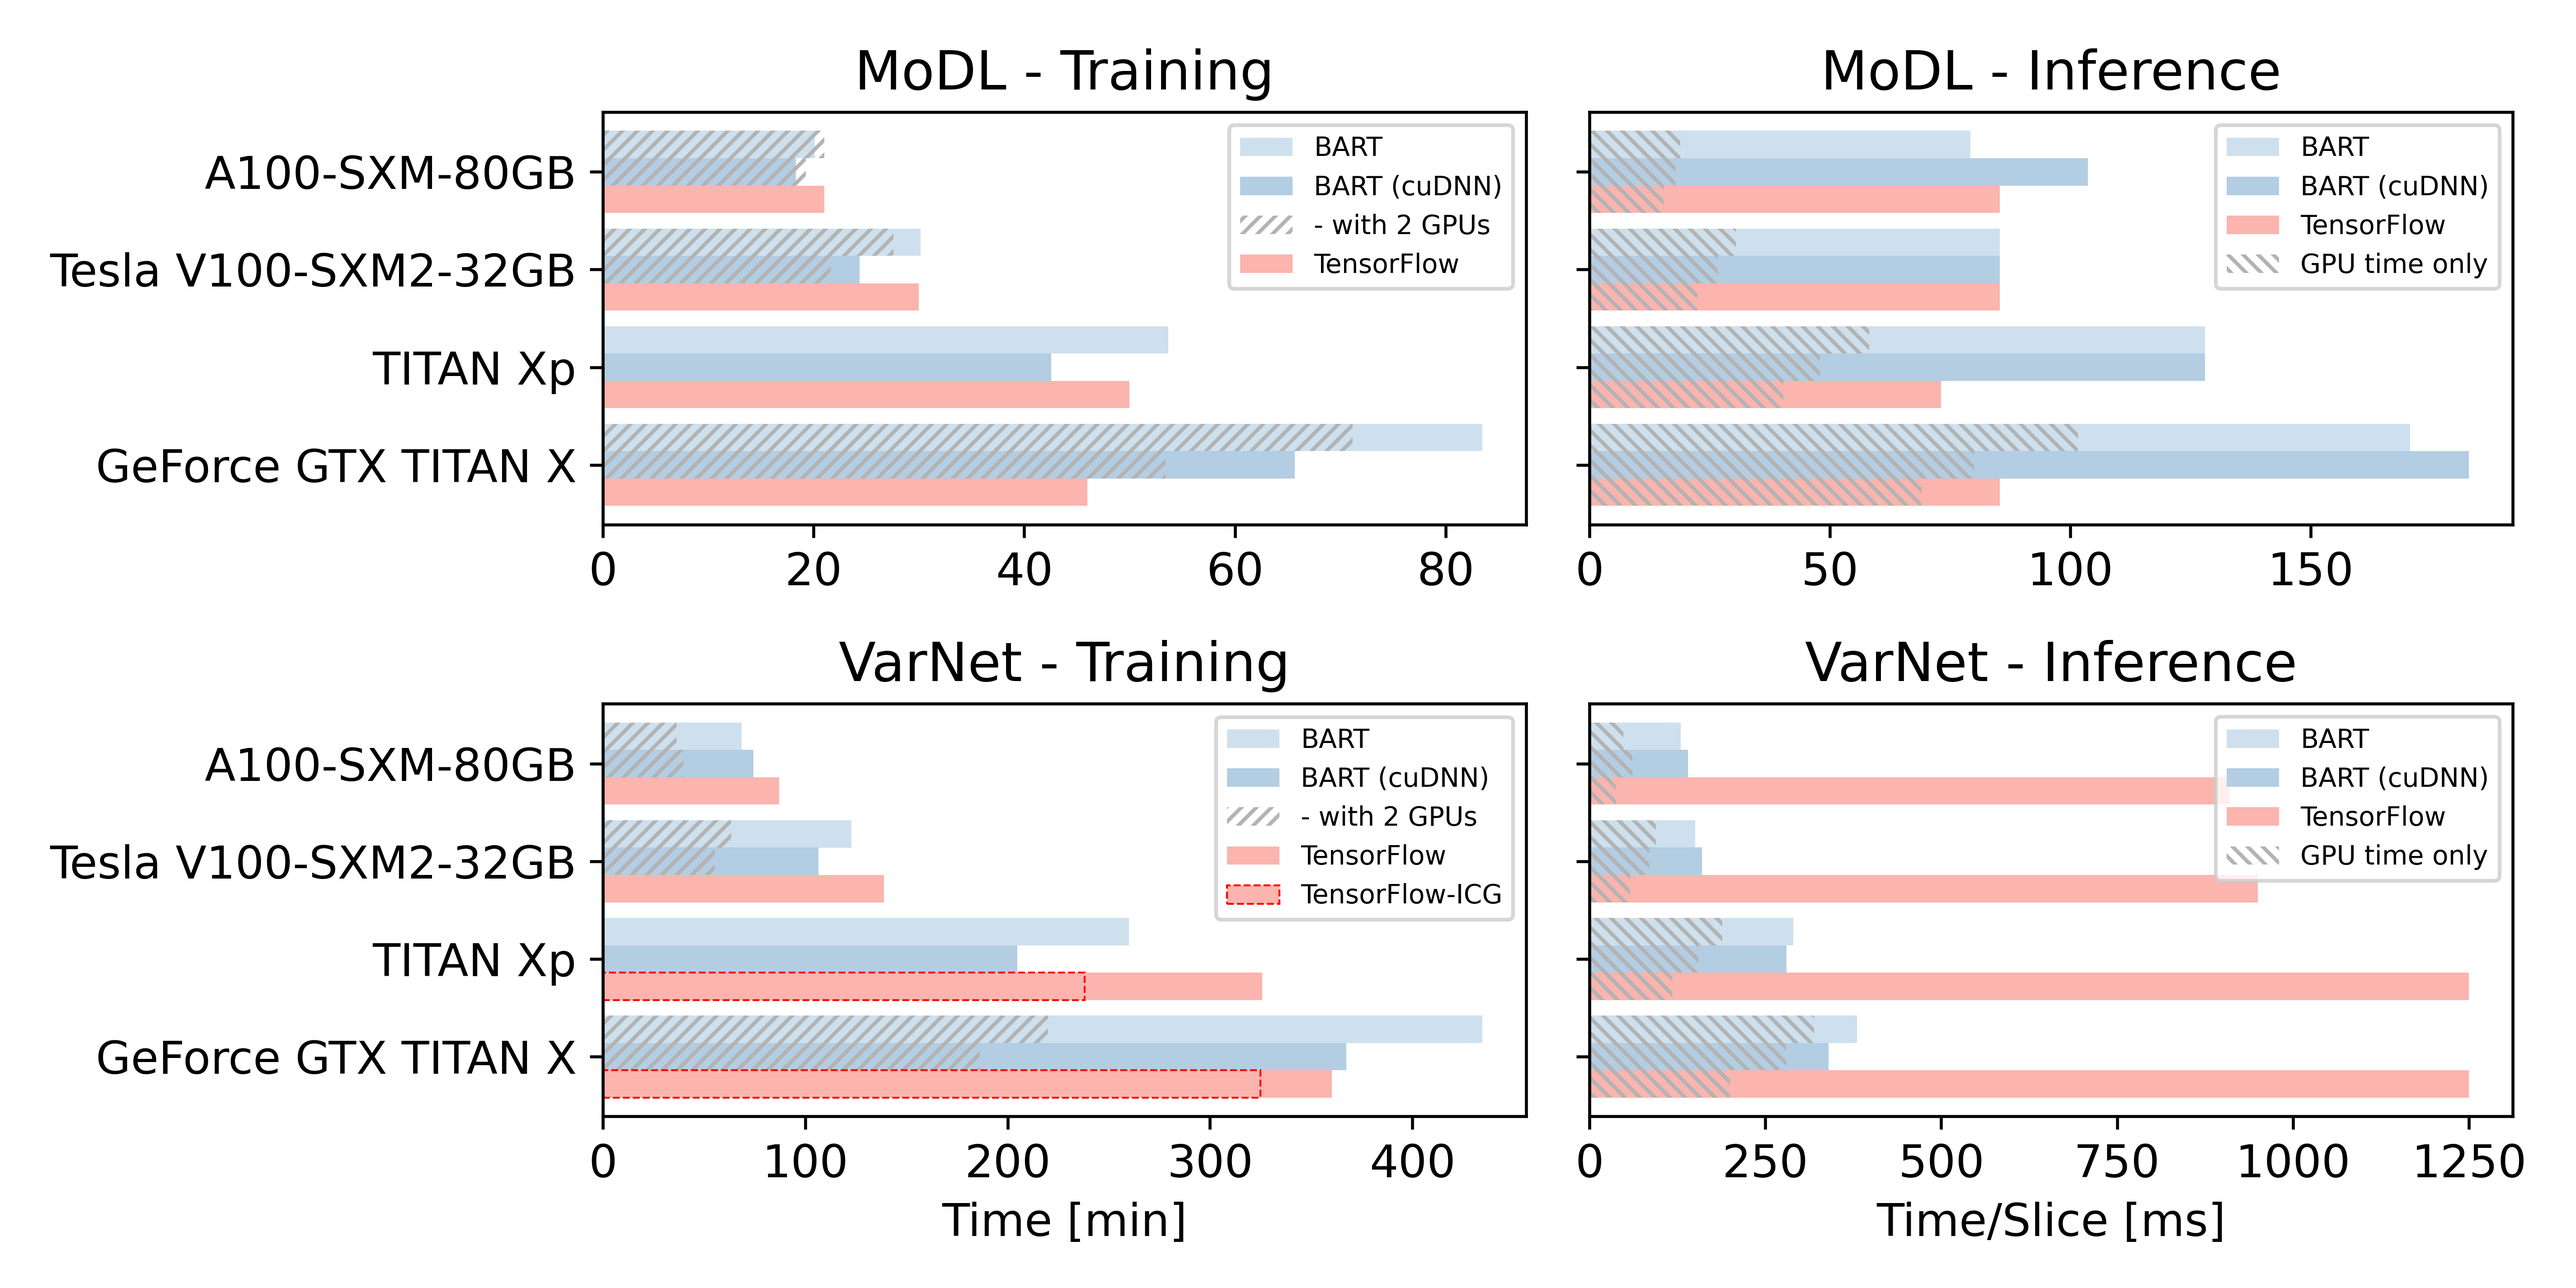
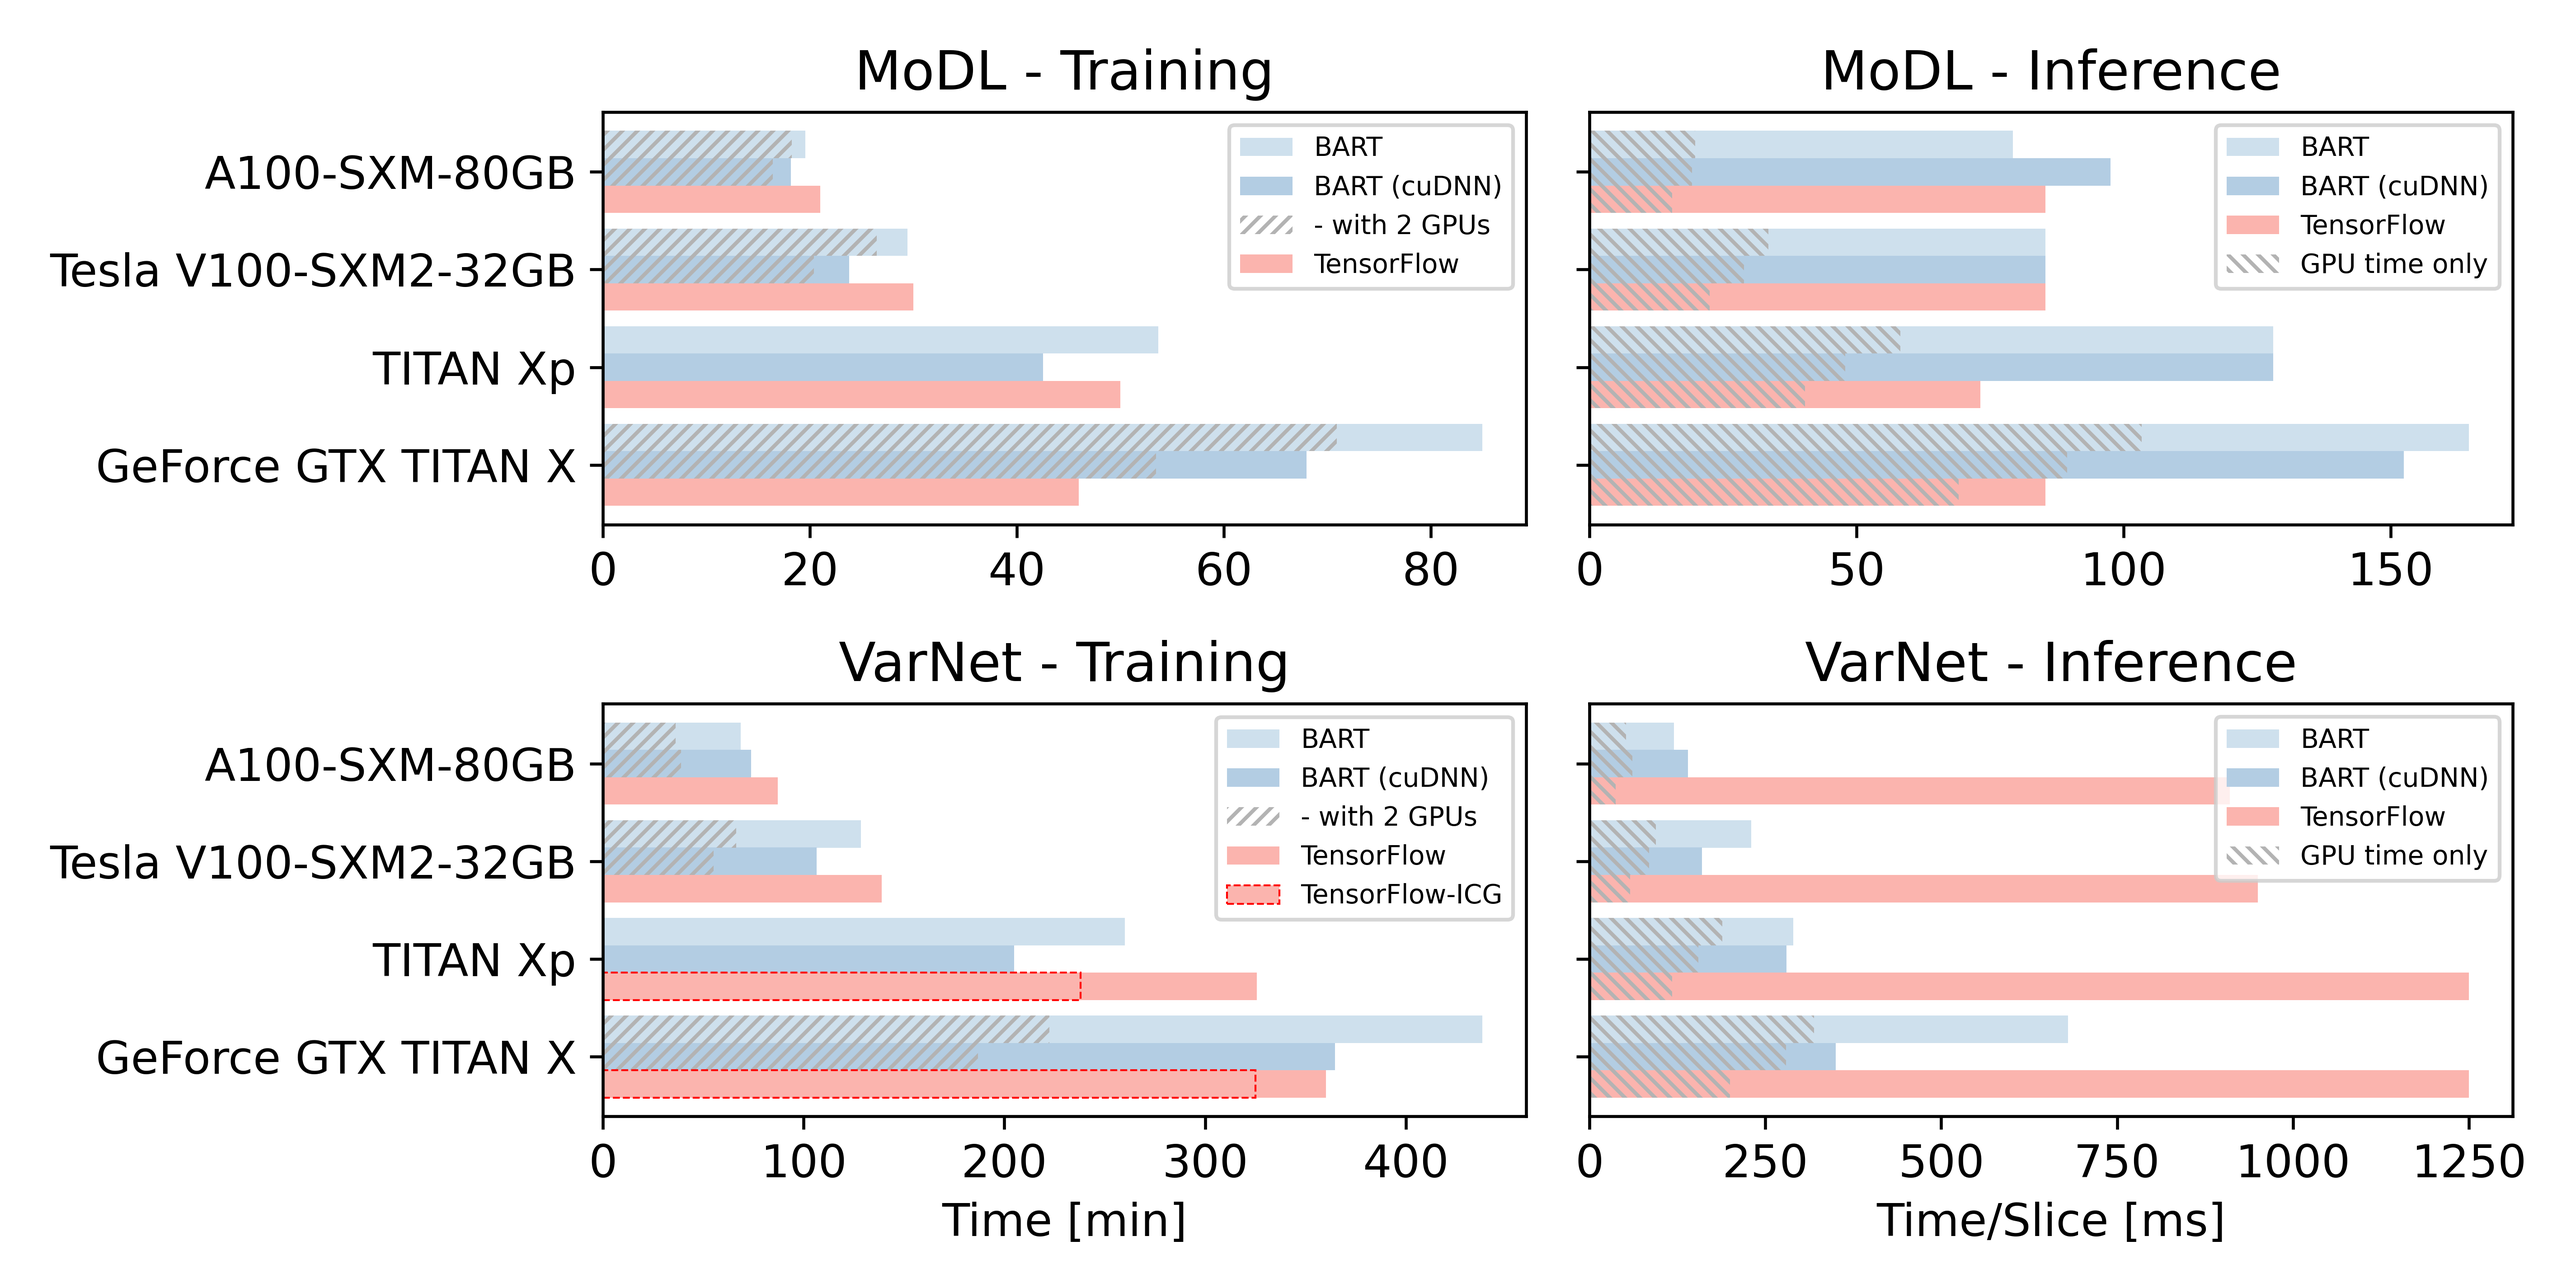
update timing plot

diff --git a/Figure_07/01_plot.py b/Figure_07/01_plot.py
@@ -137,23 +137,23 @@ def plot(outfile):
 
 
     vn_bart_apply_plain=np.array([
-        38,
+        68,
         29,
-        15,
-        13
+        23,
+        12
     ])/0.1
 
     vn_bart_apply_plain_gpu=np.array([
         6.7/0.21,
         3.4/0.18,
         1.7/0.18,
-        1.3/0.27
+        1.4/0.27
     ])/0.1
 
 
 
     vn_bart_apply_cudnn=np.array([
-        34,
+        35,
         28,
         16,
         14
@@ -169,33 +169,33 @@ def plot(outfile):
 
 
     modl_bart_apply_plain=np.array([
-        28,
+        27,
         21,
         14,
         13
     ])/0.164
 
     modl_bart_apply_plain_gpu=np.array([
-        4.0/0.24,
+        3.9/0.23,
         2.1/0.22,
-        1.1/0.22,
-        0.65/0.21
+        1.1/0.20,
+        0.65/0.20
     ])/0.164
 
 
 
     modl_bart_apply_cudnn=np.array([
-        30,
+        25,
         21,
         14,
-        17
+        16
     ])/0.164
 
     modl_bart_apply_cudnn_gpu=np.array([
-        2.1/0.16,
+        2.2/0.15,
         1.1/0.14,
-        0.57/0.13,
-        0.41/0.14
+        0.57/0.12,
+        0.41/0.13
     ])/0.164
 
 
